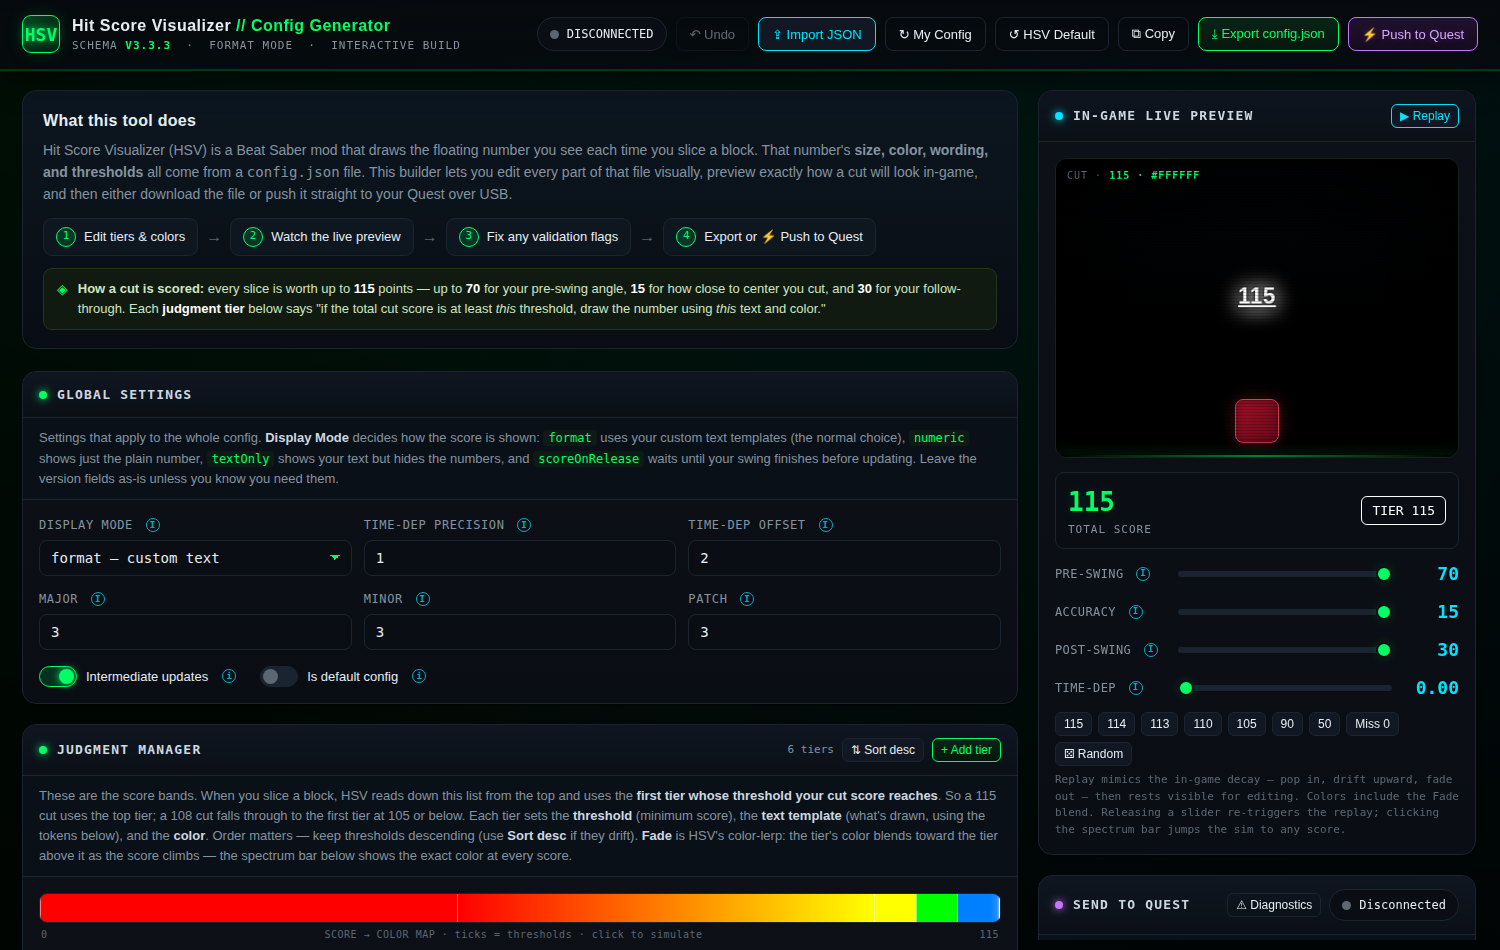
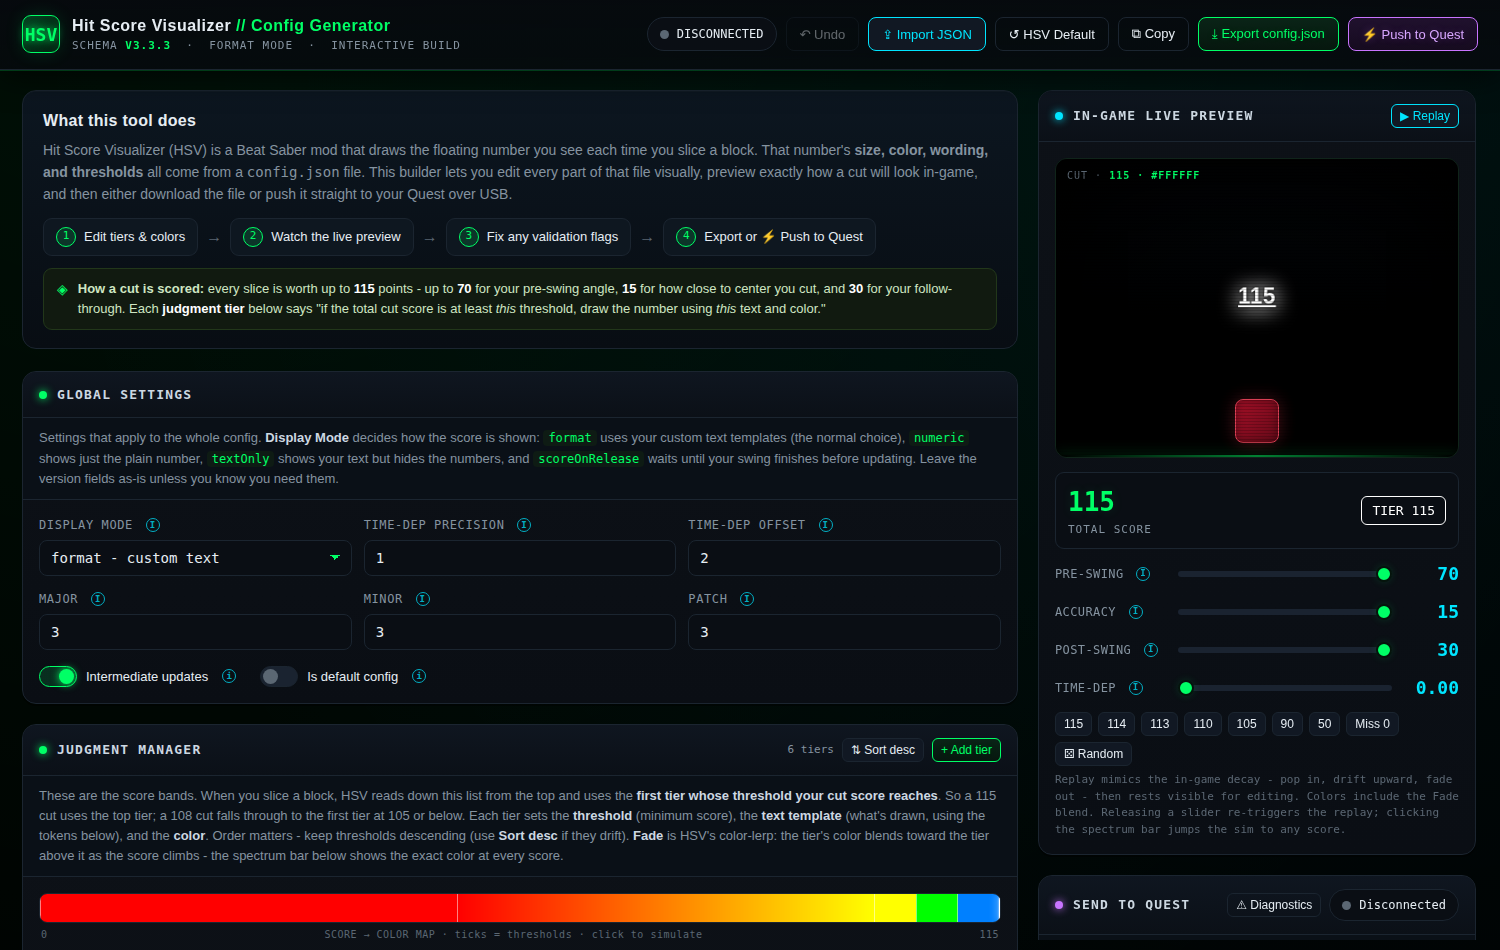
Removed "My Config"

Changed region(s): [[0.1227, 0.8547, 0.6747, 0.9158], [0.276, 0.2747, 0.644, 0.3358], [0.368, 0.0305, 0.644, 0.0611]]

diff --git a/index.html b/index.html
@@ -386,7 +386,6 @@
     <input type="file" id="importFile" accept=".json,application/json" hidden />
     <button class="ghost" id="btnUndo" disabled title="Undo last structural change (Ctrl+Z)">↶ Undo</button>
     <button class="cyan" id="btnImport">⇪ Import JSON</button>
-    <button class="ghost" id="btnSample">↻ My Config</button>
     <button class="ghost" id="btnReset">↺ HSV Default</button>
     <button class="ghost" id="btnCopy">⧉ Copy</button>
     <button class="primary" id="btnExport">⤓ Export config.json</button>
@@ -705,33 +704,6 @@
 
 <script>
 "use strict";
-
-/* =========================================================================
-   DEFAULT CONFIG  (the attached HSV 3.3.3 file, verbatim)
-   ========================================================================= */
-const ATTACHED_CONFIG = {
-  majorVersion:3, minorVersion:3, patchVersion:3,
-  isDefaultConfig:false,
-  displayMode:"format",
-  doIntermediateUpdates:true,
-  timeDependencyDecimalPrecision:0,
-  timeDependencyDecimalOffset:0,
-  judgments:[
-    {threshold:115,text:"<size=200%>%B%s%A%n</size>",color:[1.0,0.85,0.1,1.0],fade:false},
-    {threshold:114,text:"<size=150%>%B%s%A%n%d%T</size>",color:[1.0,1.0,1.0,1.0],fade:false},
-    {threshold:113,text:"<size=125%>%B%s%A%n%d%T</size>",color:[1.0,0.04,0.94,1.0],fade:false},
-    {threshold:112,text:"<size=125%>%B%s%A%n%d%T</size>",color:[0.26,0.04,1.0,1.0],fade:false},
-    {threshold:111,text:"<size=125%>%B%s%A%n%d%T</size>",color:[0.04,0.62,1.0,1.0],fade:false},
-    {threshold:110,text:"<size=125%>%B%s%A%n%d%T</size>",color:[0.04,1.0,0.79,1.0],fade:false},
-    {threshold:105,text:"<size=110%>%B%s%A%n%d%T</size>",color:[0.66,1.0,0.04,1.0],fade:false},
-    {threshold:50, text:"%BBruh.%A<size=75%>%n%s%n%d%T</size>",color:[1.0,0.58,0.03,1.0],fade:false},
-    {threshold:0,  text:"%BF%A<size=75%>%n%s%n%d%T</size>",color:[1.0,0.0,0.0,1.0],fade:false}
-  ],
-  beforeCutAngleJudgments:[{threshold:70,text:" "},{threshold:0,text:"-"}],
-  accuracyJudgments:[{threshold:15,text:" "},{threshold:0,text:" - "}],
-  afterCutAngleJudgments:[{threshold:30,text:" "},{threshold:0,text:"-"}],
-  timeDependencyJudgments:null
-};
 
 /* The HSV mod's own generated default config (HsvConfigModel.Default in the
    mod source), translated to the 3.x schema this tool edits. The accuracy
@@ -1353,7 +1325,7 @@ function parseConfigText(txt){
 
 function importConfig(obj){
   _colorsNormalized=0;
-  const d=ATTACHED_CONFIG;
+  const d=DEFAULT_HSV_CONFIG;
   const norm={
     majorVersion:num(obj.majorVersion,d.majorVersion),
     minorVersion:num(obj.minorVersion,d.minorVersion),
@@ -1493,7 +1465,6 @@ document.getElementById("importFile").addEventListener("change",e=>{
   e.target.value="";
 });
 document.getElementById("btnExport").addEventListener("click",exportConfig);
-document.getElementById("btnSample").addEventListener("click",()=>{ pushUndo(); state=clone(ATTACHED_CONFIG); renderAll(); toast("Loaded MSploit config"); });
 document.getElementById("btnReset").addEventListener("click",()=>{
   pushUndo();
   state=clone(DEFAULT_HSV_CONFIG);
